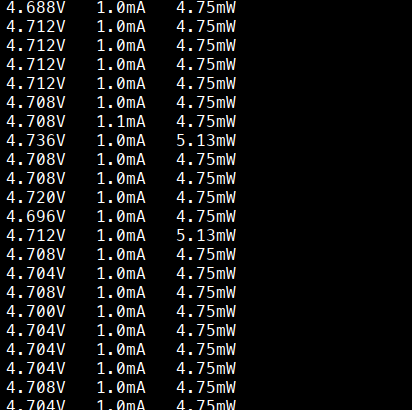
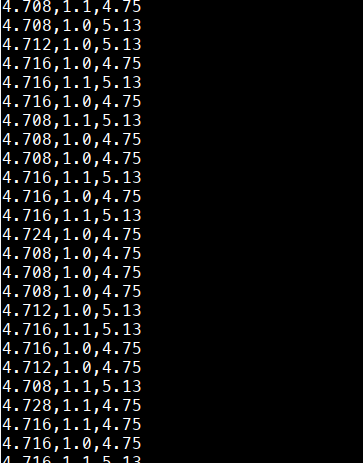
change output to csv format otherwise power does not fit

Changed region(s): [[0.0, 0.0, 0.3939, 1.0], [0.4242, 0.0, 0.5758, 1.0]]

diff --git a/readme.py b/readme.py
@@ -73,6 +73,8 @@ Copy ina219.py to your ESP32 and then copy blueshunt.py as main.py.
 The BLE app should run after a reset.  The App's BLE UART service will 
 show up as "blueshunt".  The same values sent (or "notified") over BLE 
 are also printed to the Micropython console.
+
+The order of the output is volts,milliamps,milliwatts.
 """)
 
 

diff --git a/blueshunt.py b/blueshunt.py
@@ -132,7 +132,7 @@ blue = BLEUART(ble, NAME)
 
 while True:
     pin.value(not pin.value()) 
-    buf = "{:6.3f}V {:5.1f}mA {:6.2f}mW".format(
+    buf = "{:.3f},{:.1f},{:.2f}".format(
         ina.bus_voltage(), 
         ina.current() * 1000,
         ina.power() * 1000)

diff --git a/README.md b/README.md
@@ -61,3 +61,5 @@ The BLE app should run after a reset.  The App's BLE UART service will
 show up as "blueshunt".  The same values sent (or "notified") over BLE 
 are also printed to the Micropython console.
 
+The order of the output is volts,milliamps,milliwatts.
+
